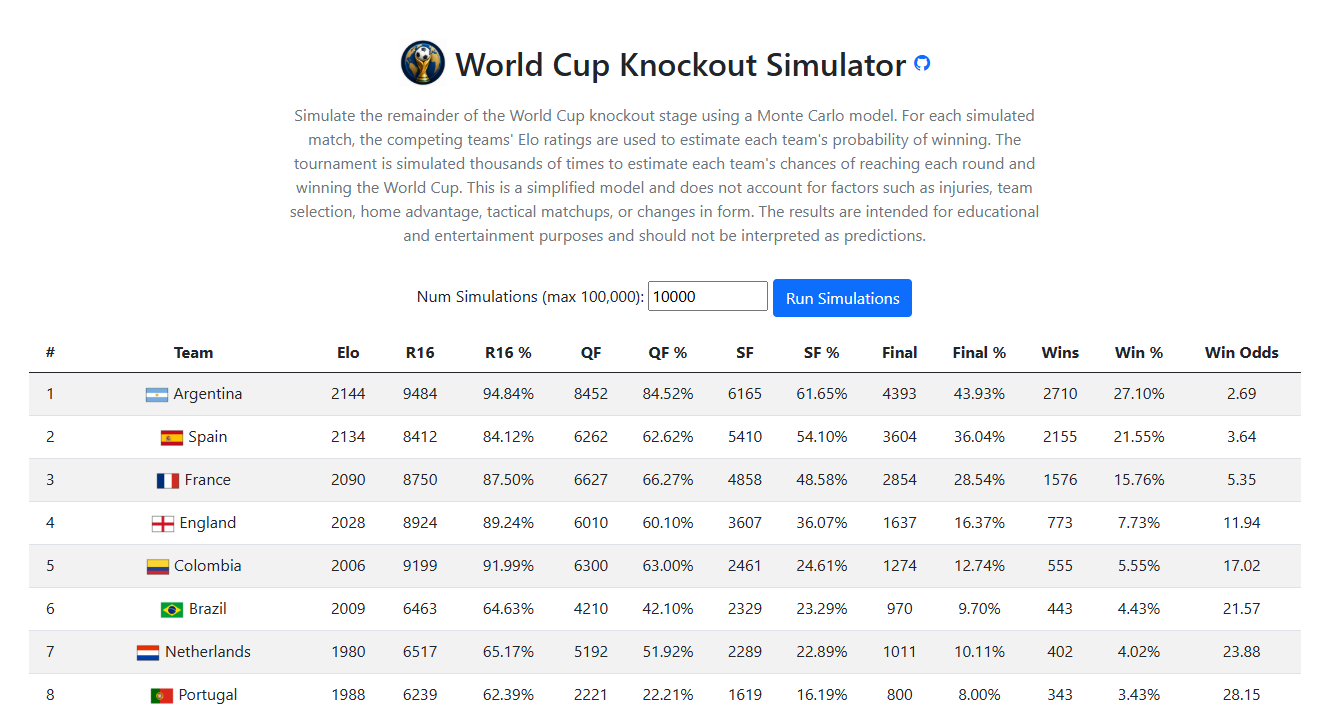
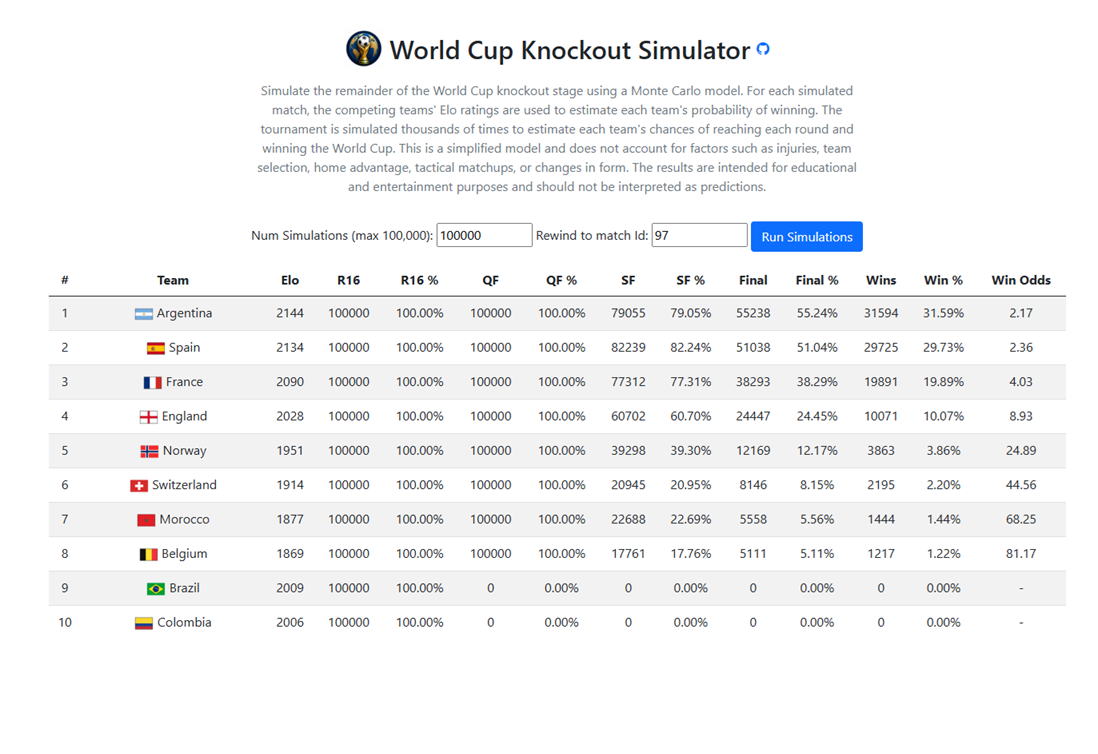
Updated README and added license

diff --git a/README.md b/README.md
@@ -1,1 +1,135 @@
-# WorldCup
+# World Cup Knockout Simulator
+
+A Monte Carlo simulation engine for the FIFA World Cup knockout stage built with **ASP.NET Core**.
+
+🌐 **Try the simulator online:**
+**https://worldcupsimulator-gmcdonald-ejagawaya7brgcc5.australiaeast-01.azurewebsites.net/**
+
+## Screenshot
+
+![World Cup Knockout Simulator](docs/images/worldcupsimulator.png)
+
+The simulator uses the current tournament results together with **Elo ratings** to estimate each team's probability of progressing through the knockout rounds and ultimately winning the World Cup.
+
+## Features
+
+* 🏆 Simulates the entire World Cup knockout tournament
+* 🎲 Runs up to one hundred thousand of Monte Carlo simulations
+* 📊 Calculates the probability of each team reaching:
+
+  * Round of 16
+  * Quarter-finals
+  * Semi-finals
+  * Final
+  * Winning the World Cup
+* ⚽ Uses Elo ratings to determine match win probabilities
+* 🌍 Retrieves the latest fixtures and results from the ESPN World Cup API
+* 🖼 Displays team names and national flags
+* 📈 Shows both raw simulation counts and percentages
+* 🚀 Hosted on Microsoft Azure
+
+### Tournament Rewind
+
+The simulator can **rewind the tournament to any point in the knockout stage** by specifying a match ID.
+
+All matches before the selected match remain fixed using their actual results, while the specified match and every subsequent match are simulated. This makes it possible to answer questions such as:
+
+* *What are each team's chances before the quarter-finals begin?*
+* *How would the probabilities change before a specific semi-final?*
+* *What were the title odds prior to a particular match?*
+
+This feature allows the simulator to recreate the state of the tournament at any stage and generate probabilities based only on the information that was known at that point in time.
+
+
+## How it Works
+
+1. The application downloads the latest World Cup fixtures and results from ESPN.
+2. Completed matches remain fixed using their actual results.
+3. Remaining matches are simulated using Elo-based win probabilities.
+4. Winners advance through the knockout bracket.
+5. The tournament is repeated up to one hundred thousand times.
+6. The results are aggregated to estimate each team's chances of advancing and winning the tournament.
+
+## Technology Stack
+
+* ASP.NET Core
+* Razor Pages
+* C#
+* Bootstrap 5
+* JavaScript
+* ESPN World Cup API
+* Azure App Service
+
+## Project Structure
+
+```text
+Services/
+    EspnWorldCupService      // Downloads and parses ESPN data
+    MonteCarloService        // Tournament simulation engine
+    TeamInfoService          // Team names, logos and Elo ratings
+
+Models/
+    MatchResult
+    TeamInfo
+    TeamStats
+    SimulationStats
+    SimulationRequest
+
+Pages/
+    Index.cshtml
+```
+
+## Simulation Model
+
+Each simulated match:
+
+* Uses Elo ratings for both teams.
+* Calculates the probability of each team winning.
+* Advances the winner to the next round.
+* Updates cumulative statistics for every team.
+
+The simulator keeps track of:
+
+* Round of 16 appearances
+* Quarter-final appearances
+* Semi-final appearances
+* Final appearances
+* Tournament wins
+
+## Data Source
+
+Match fixtures and results are obtained from the ESPN World Cup API.
+
+## Running Locally
+
+Clone the repository:
+
+```bash
+git clone https://github.com/gmcdonald73/WorldCupSimulator.git
+```
+
+Run the application:
+
+```bash
+dotnet run
+```
+
+or open the solution in Visual Studio and press **F5**.
+
+
+## Disclaimer
+
+This project is intended for educational and analytical purposes. Simulation results are probabilistic estimates based on Elo ratings and should not be interpreted as predictions of actual tournament outcomes.
+
+## Author
+
+**Graeme McDonald**
+
+Senior .NET Developer with an interest in simulation, quantitative analysis and software engineering.
+
+* GitHub: https://github.com/gmcdonald73
+* LinkedIn: https://www.linkedin.com/in/graeme-mcdonald73/
+
+## License
+
+This project is licensed under the MIT License.
